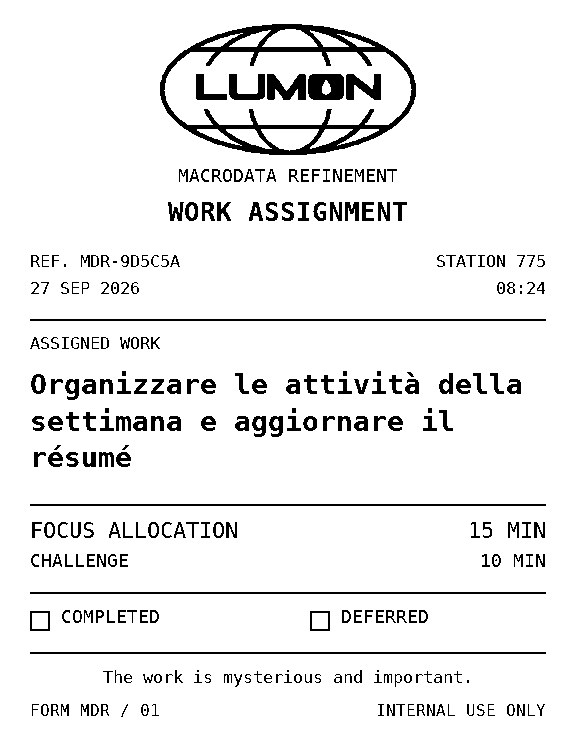
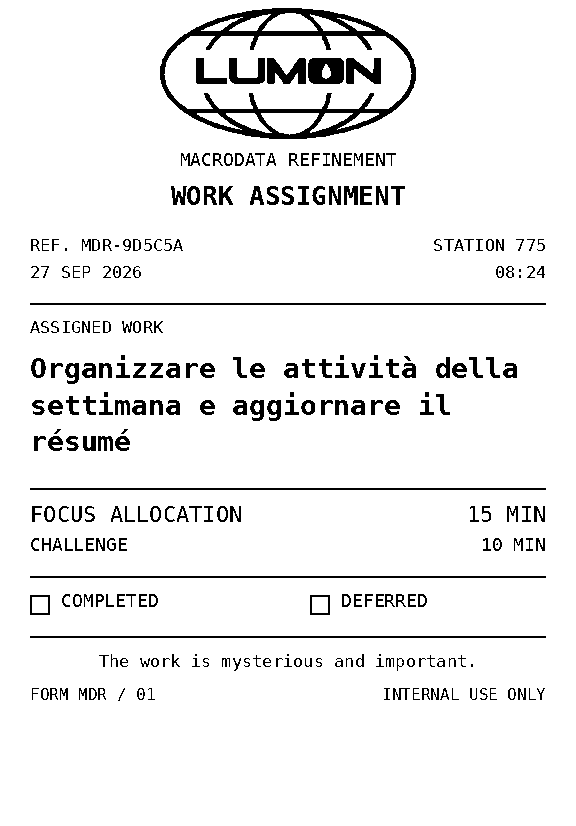
Balance printed work-slip margins

diff --git a/software/deploy_ticket_margins.py b/software/deploy_ticket_margins.py
@@ -1,0 +1,89 @@
+"""Deploy adjusted work-slip margins without printing or changing task history."""
+from datetime import datetime, timezone
+import hashlib
+import json
+from pathlib import Path
+import shutil
+import subprocess
+import sys
+import tempfile
+import time
+from urllib.request import urlopen
+
+app = Path('/home/srizzo/taskticket/TaskTicket')
+relative = 'printer/ticket.py'
+source = Path(__file__).resolve().parent / 'taskticket' / relative
[1 lines of base64/hex data omitted]
+
+
+def digest(path):
+    return hashlib.sha256(path.read_bytes()).hexdigest()
+
+
+def kiosk(action):
+    subprocess.run(['sudo', '-n', 'systemctl', action, 'taskiosk.service'], check=True)
+
+
+def subscriber_pid():
+    return subprocess.check_output(['systemctl', 'show', 'thermal-printer-subscriber.service',
+                                    '-p', 'MainPID', '--value'], text=True).strip()
+
+
+if digest(app / relative) != expected:
+    raise SystemExit('Source changed since inspection: ' + relative)
+compile(source.read_text(), relative, 'exec')
+backup = app.parent / 'backups' / ('ticket-margins-' + datetime.now(timezone.utc).strftime('%Y%m%dT%H%M%SZ'))
+(backup / 'printer').mkdir(parents=True, exist_ok=False)
+shutil.copy2(app / relative, backup / relative)
+subscriber_before = subscriber_pid()
+kiosk('stop')
+history = app / 'data/task_history.json'
+history_hash = digest(history)
+try:
+    shutil.copy2(source, app / relative)
+    # Exercise the deployed printer class against a temporary file, never USB.
+    sys.path.insert(0, str(app))
+    from printer.thermal_printer import ThermalPrinter
+    with tempfile.TemporaryDirectory() as folder:
+        printer = ThermalPrinter()
+        printer.debug_mode = False
+        printer.is_initialized = True
+        printer.use_direct_access = True
+        printer.printer_device = str(Path(folder) / 'captured.bin')
+        if not printer.print_task_ticket(dict(task_id='synthetic-margin-check', ticket_title='Review the department filing procedure', estimated_time=15, selection_method='local')):
+            raise RuntimeError('Synthetic printer capture failed')
+        captured = Path(printer.printer_device).read_bytes()
+        if not captured.startswith(b'\x1b@\x1ba\x00\x1dv0\x00') or not captured.endswith(b'\n\x1d\x56\x41\x03'):
+            raise RuntimeError('Invalid captured raster job')
+    kiosk('start')
+    for attempt in range(30):
+        try:
+            with urlopen('http://127.0.0.1:5000/display', timeout=2) as response:
+                if response.status == 200 and b'terminal.js?v=8' in response.read():
+                    break
+        except OSError:
+            pass
+        time.sleep(1)
+    else:
+        raise RuntimeError('Kiosk did not become healthy')
+    assert digest(history) == history_hash, 'Task history changed during deployment'
+    assert subscriber_pid() == subscriber_before, 'Message-printer service restarted unexpectedly'
+except Exception:
+    kiosk('stop')
+    shutil.copy2(backup / relative, app / relative)
+    kiosk('start')
+    raise
+
+manifest = {
+    'deployed_at': datetime.now(timezone.utc).isoformat(), 'backup': str(backup),
+    'changed_files': [relative], 'deployed_sha256': {relative: digest(app / relative)},
+    'artwork_top_margin_dots': 8, 'added_bottom_padding_dots': 96,
+    'net_added_paper_dots': 80, 'synthetic_job_capture_passed': True,
+    'history_unchanged': digest(history) == history_hash,
+    'subscriber_pid_unchanged': subscriber_pid() == subscriber_before,
+    'physical_tickets_printed': 0,
+    'physical_margin_check': 'Pending the next printed ticket.',
+    'rollback': 'Stop taskiosk.service, restore printer/ticket.py from backup, then start taskiosk.service.',
+}
+(backup / 'deployment.json').write_text(json.dumps(manifest, indent=2) + '\n')
+print(json.dumps(manifest))

diff --git a/software/taskticket/printer/ticket.py b/software/taskticket/printer/ticket.py
@@ -17,6 +17,11 @@ from PIL import Image, ImageDraw, ImageFont
 
 ASSETS = Path(__file__).resolve().parents[1] / 'static'
 MOTTO = 'The work is mysterious and important.'
+# The POS80 leaves a leading margin between its print head and cutter. Keep
+# only 1 mm of artwork above the logo, and add 12 mm to the former footer
+# padding to balance the physical ticket. At 203 dpi, eight dots are about 1 mm.
+TOP_MARGIN_DOTS = 8
+BOTTOM_PADDING_DOTS = 112
 
 
 def clean_text(value):
@@ -85,7 +90,7 @@ class Receipt:
         self.width = width
         self.margin = 30
         self.inner = width - 2 * self.margin
-        self.y = 24
+        self.y = TOP_MARGIN_DOTS
         self.operations = []
 
     def text(self, text, size=18, align='left', bold=False, gap=0):
@@ -127,7 +132,7 @@ class Receipt:
         self.y += 32
 
     def image(self):
-        image = Image.new('L', (self.width, self.y + 16), 255)
+        image = Image.new('L', (self.width, self.y + BOTTOM_PADDING_DOTS), 255)
         draw = ImageDraw.Draw(image)
         for operation in self.operations:
             kind, position, *args = operation

diff --git a/software/preview/check_ticket.py b/software/preview/check_ticket.py
@@ -49,11 +49,11 @@ class WorkSlips(unittest.TestCase):
                 box=black.getbbox()
                 self.assertGreaterEqual(box[0],29)
                 self.assertLessEqual(box[2],width-29)
-                self.assertGreaterEqual(box[1],23)
-                self.assertLess(box[3],image.height-10)
+                self.assertEqual(box[1],8)
+                self.assertGreaterEqual(image.height-box[3],112)
         image=render_ticket(self.task,self.stamp)
         self.assertEqual(image.width,576)
-        self.assertLess(image.height,800)
+        self.assertLess(image.height,880)
 
     def test_raster_strips_reconstruct_exact_preview_without_blank_seams(self):
         image=render_ticket(self.task,self.stamp)

diff --git a/software/README.md b/software/README.md
@@ -94,10 +94,11 @@ stationery is an original themed design. The old random euro-value line is gone.
 See the [actual printer-width preview and layout notes](preview/tickets/README.md).
 
 The entire slip is rendered as a monochrome bitmap, including accented text.
-Typical artwork is about 85 mm long, plus the cutter margin; longer titles wrap
-and extend the paper. A single synthetic layout-proof receipt was sent without
-issuing a real task. Its physical appearance awaits the user's visual check;
-the raster pixels, margins and USB delivery passed automated verification.
+Typical artwork is about 95 mm long, plus the cutter margin; longer titles wrap
+and extend the paper. Following physical feedback, the artwork's top padding
+was reduced by about 2 mm and its bottom padding increased by about 12 mm to
+balance the printer's leading blank space. The revised physical balance awaits
+the next ticket; rendering and isolated printer-delivery checks pass.
 
 ## Optional settings
 
@@ -193,6 +194,11 @@ work-slip proofs are described above. Tap **New Task** on the terminal to
 exercise the physical task workflow when wanted.
 
 ## Deployment and recovery
+
+The ticket margin adjustment is recorded in `release/ticket-margins-deployment.json`.
+Restore `printer/ticket.py` from its recorded backup and restart
+`taskiosk.service` to undo it. Deployment captures a synthetic job in a temporary
+file and does not issue a physical ticket or change task history.
 
 The simplified task screen and larger task cards are recorded in
 `release/compact-grid-deployment.json`. Restore its four `changed_files` from

diff --git a/software/preview/tickets/README.md b/software/preview/tickets/README.md
@@ -17,10 +17,19 @@ The random euro-value line and duplicate focus-session sentence are removed.
 
 Rendering happens at the actual 576-dot printable width, with 30-dot side
 margins. Normal task text is 28 dots high; supporting fields are 16–22 dots.
-At 203 dpi, the illustrated two-line assignment uses roughly 85 mm of artwork
+At 203 dpi, the illustrated two-line assignment uses roughly 95 mm of artwork
 plus the printer's cutter margin. Long titles grow the slip rather than being
 clipped or abbreviated. Accented text is rendered directly, avoiding the
 printer firmware's inconsistent handling of UTF-8.
+
+The revised artwork starts 8 dots (about 1 mm) below its top, reduced from 24.
+Its bottom padding is 96 dots (about 12 mm) larger. This adds approximately
+10 mm to each slip overall. The uneven bitmap margins compensate for the
+leading blank paper visible on the physical printer; the PNG does not include
+that mechanical margin. The current
+[ESC/POS feed-and-cut command](https://download4.epson.biz/sec_pubs/pos/reference_en/escpos/gs_cv.html)
+feeds to the cutter without reverse feeding. The next physical ticket should
+confirm the balance; the POS80's exact head-to-cutter distance is not measured.
 
 The same 1-bit pixels are used for the preview and USB job. They are sent as
 contiguous 128-row raster strips with no intervening newlines, then one final
